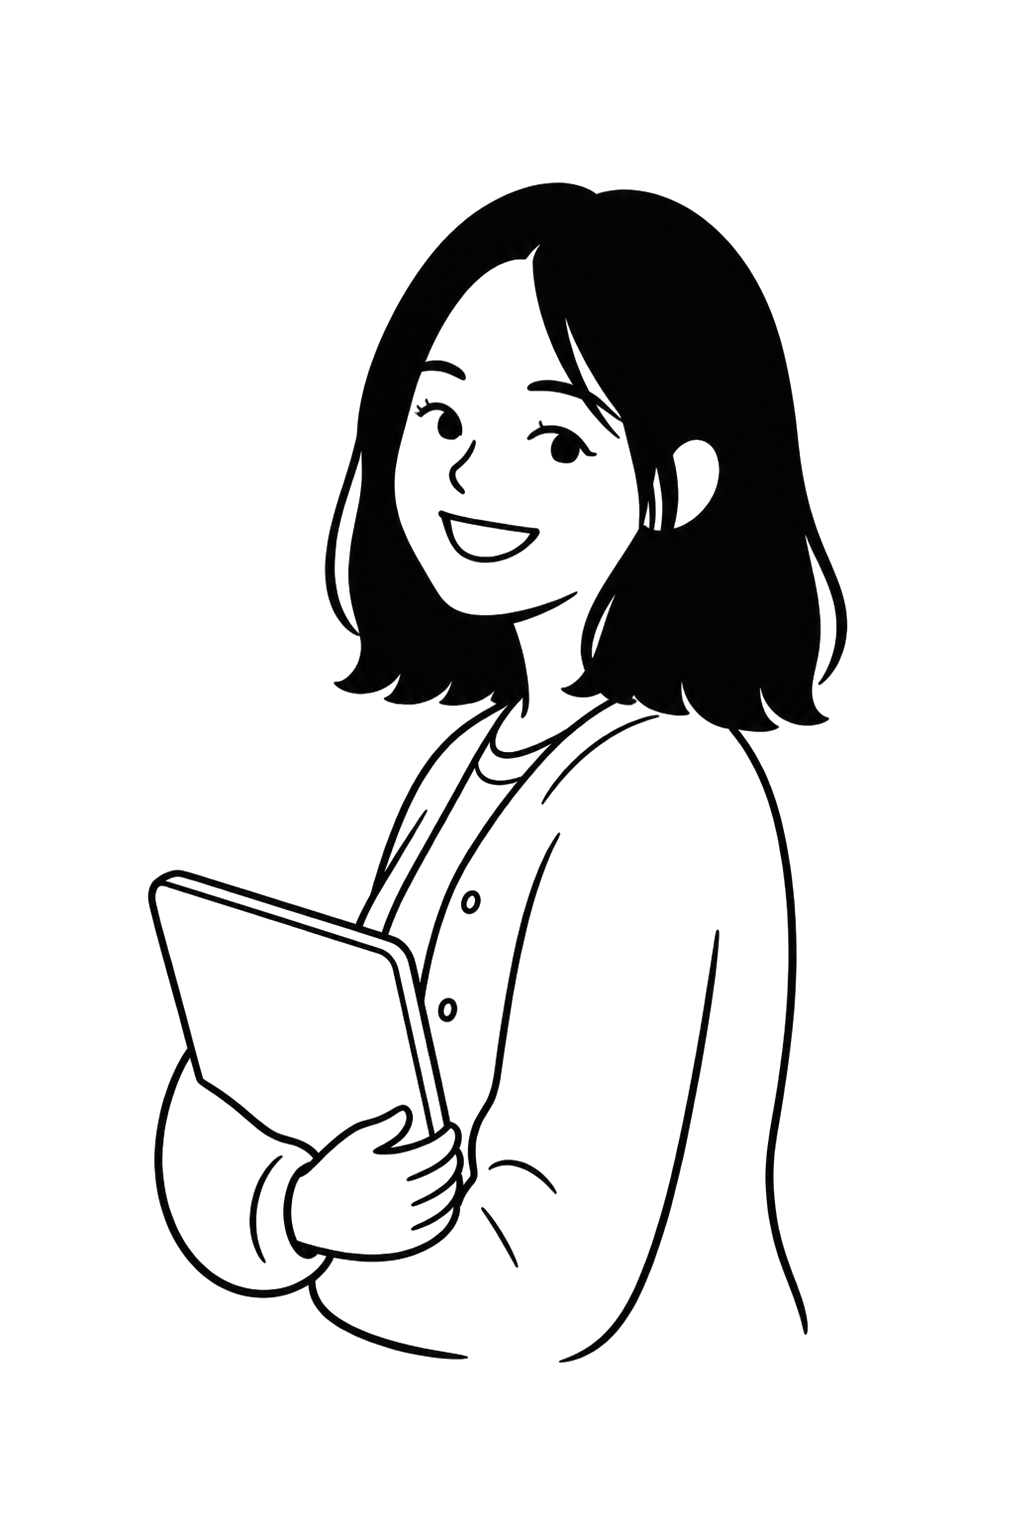
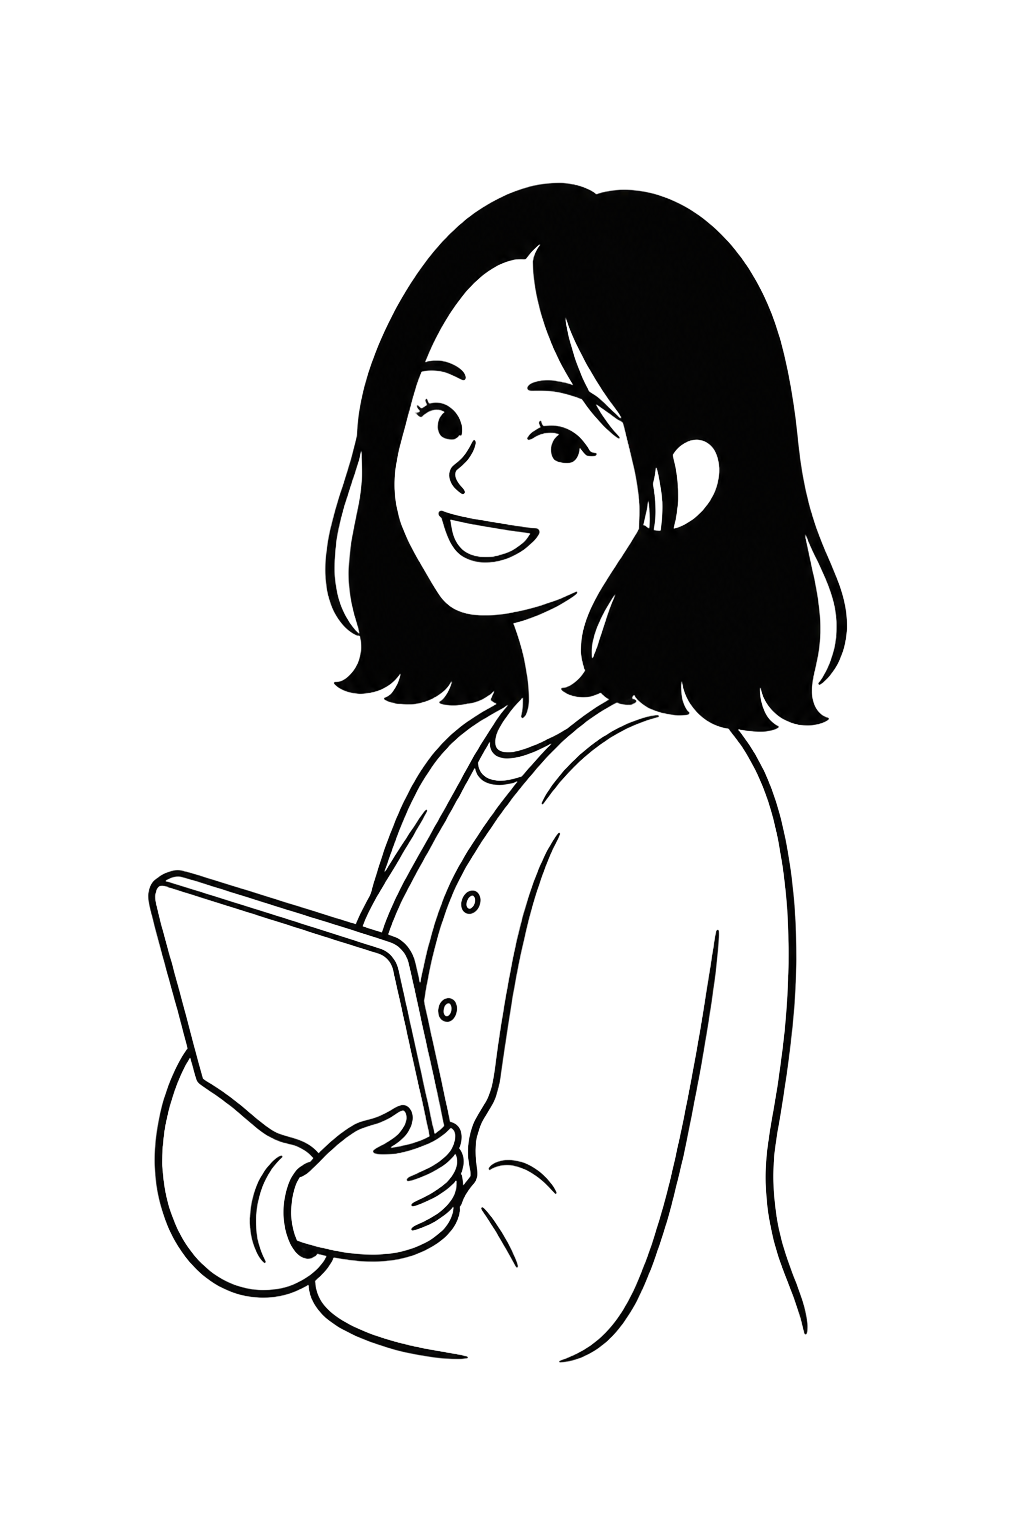
Remove the cream card behind the flipped About drawing

diff --git a/assets/css/plain.css b/assets/css/plain.css
@@ -115,9 +115,8 @@ body {
 .plain-portrait {
   grid-area: photo;
   margin: 0;
-  padding: 0.5rem 0.5rem 0.7rem;
-  background: var(--pane);
-  box-shadow: 4px 4px 0 rgba(76, 85, 68, 0.16);
+  padding: 0;
+  background: transparent;
 }
 
 .portrait-flip {
@@ -133,6 +132,7 @@ body {
 .portrait-inner {
   position: relative;
   display: block;
+  background: transparent;
   transform-style: preserve-3d;
   transition: transform 0.7s ease;
 }
@@ -196,6 +196,7 @@ body {
   display: block;
   width: 100%;
   height: auto;
+  background: transparent;
 }
 
 .about-copy {
